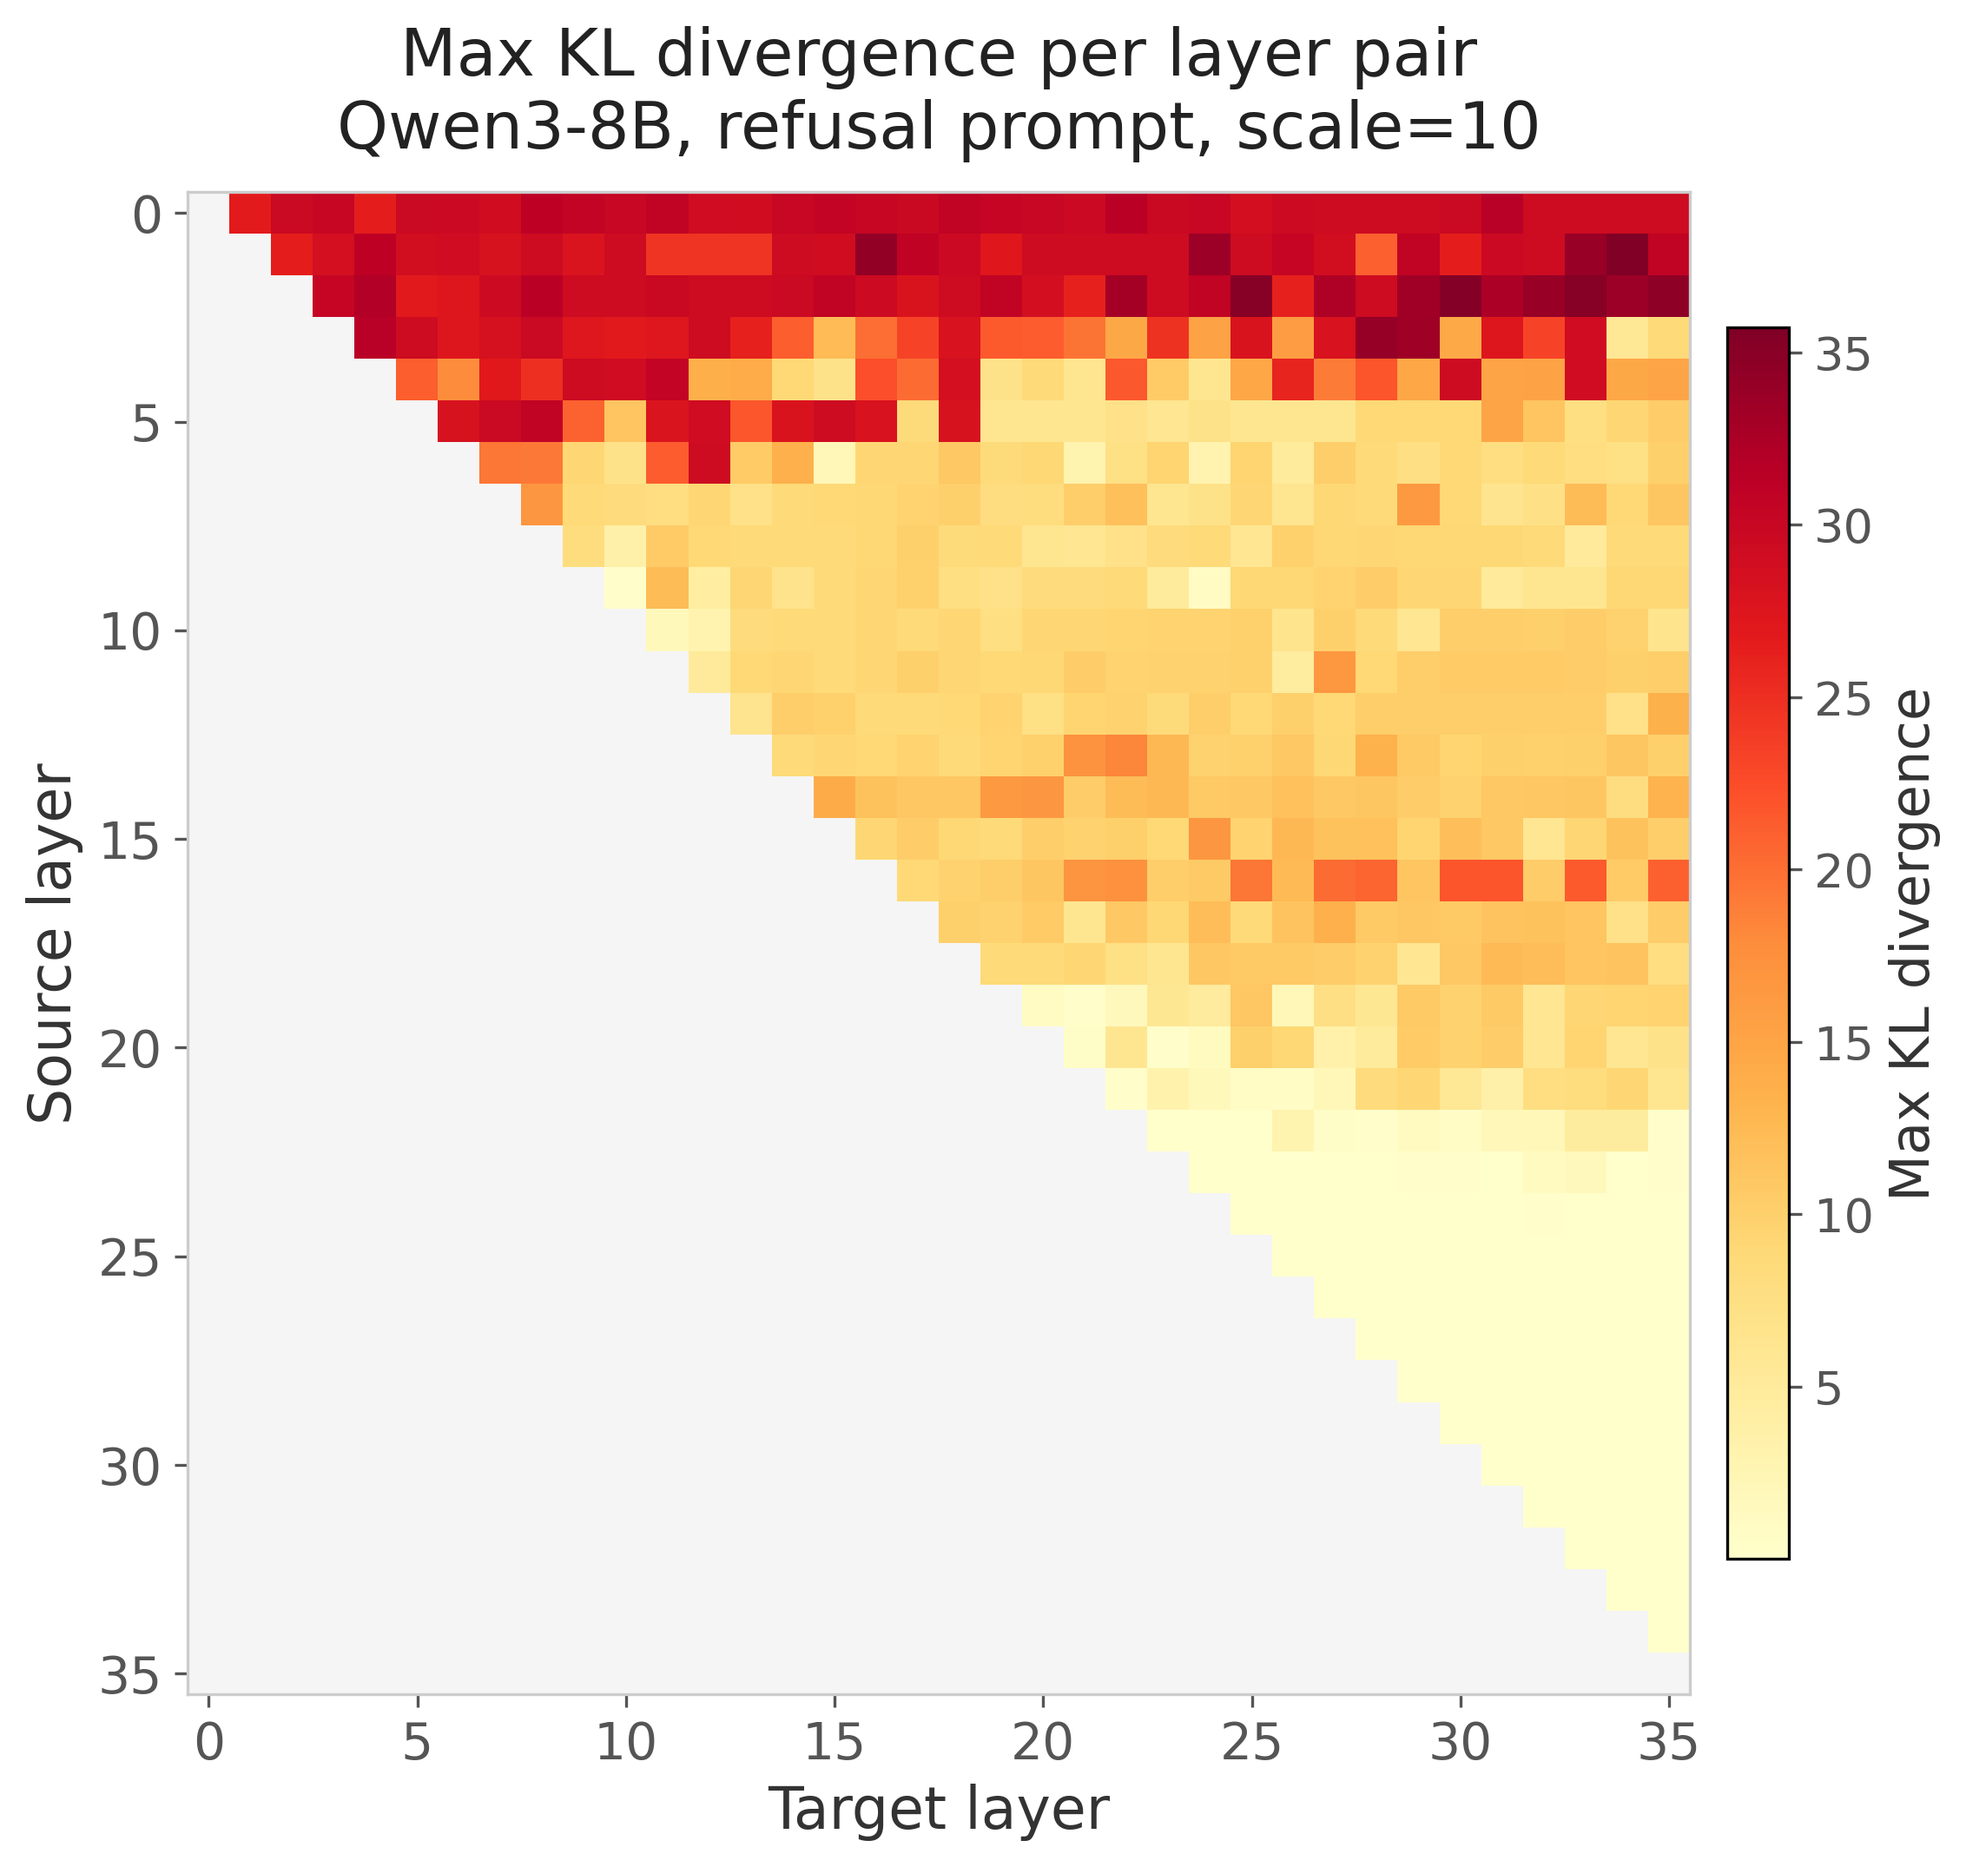
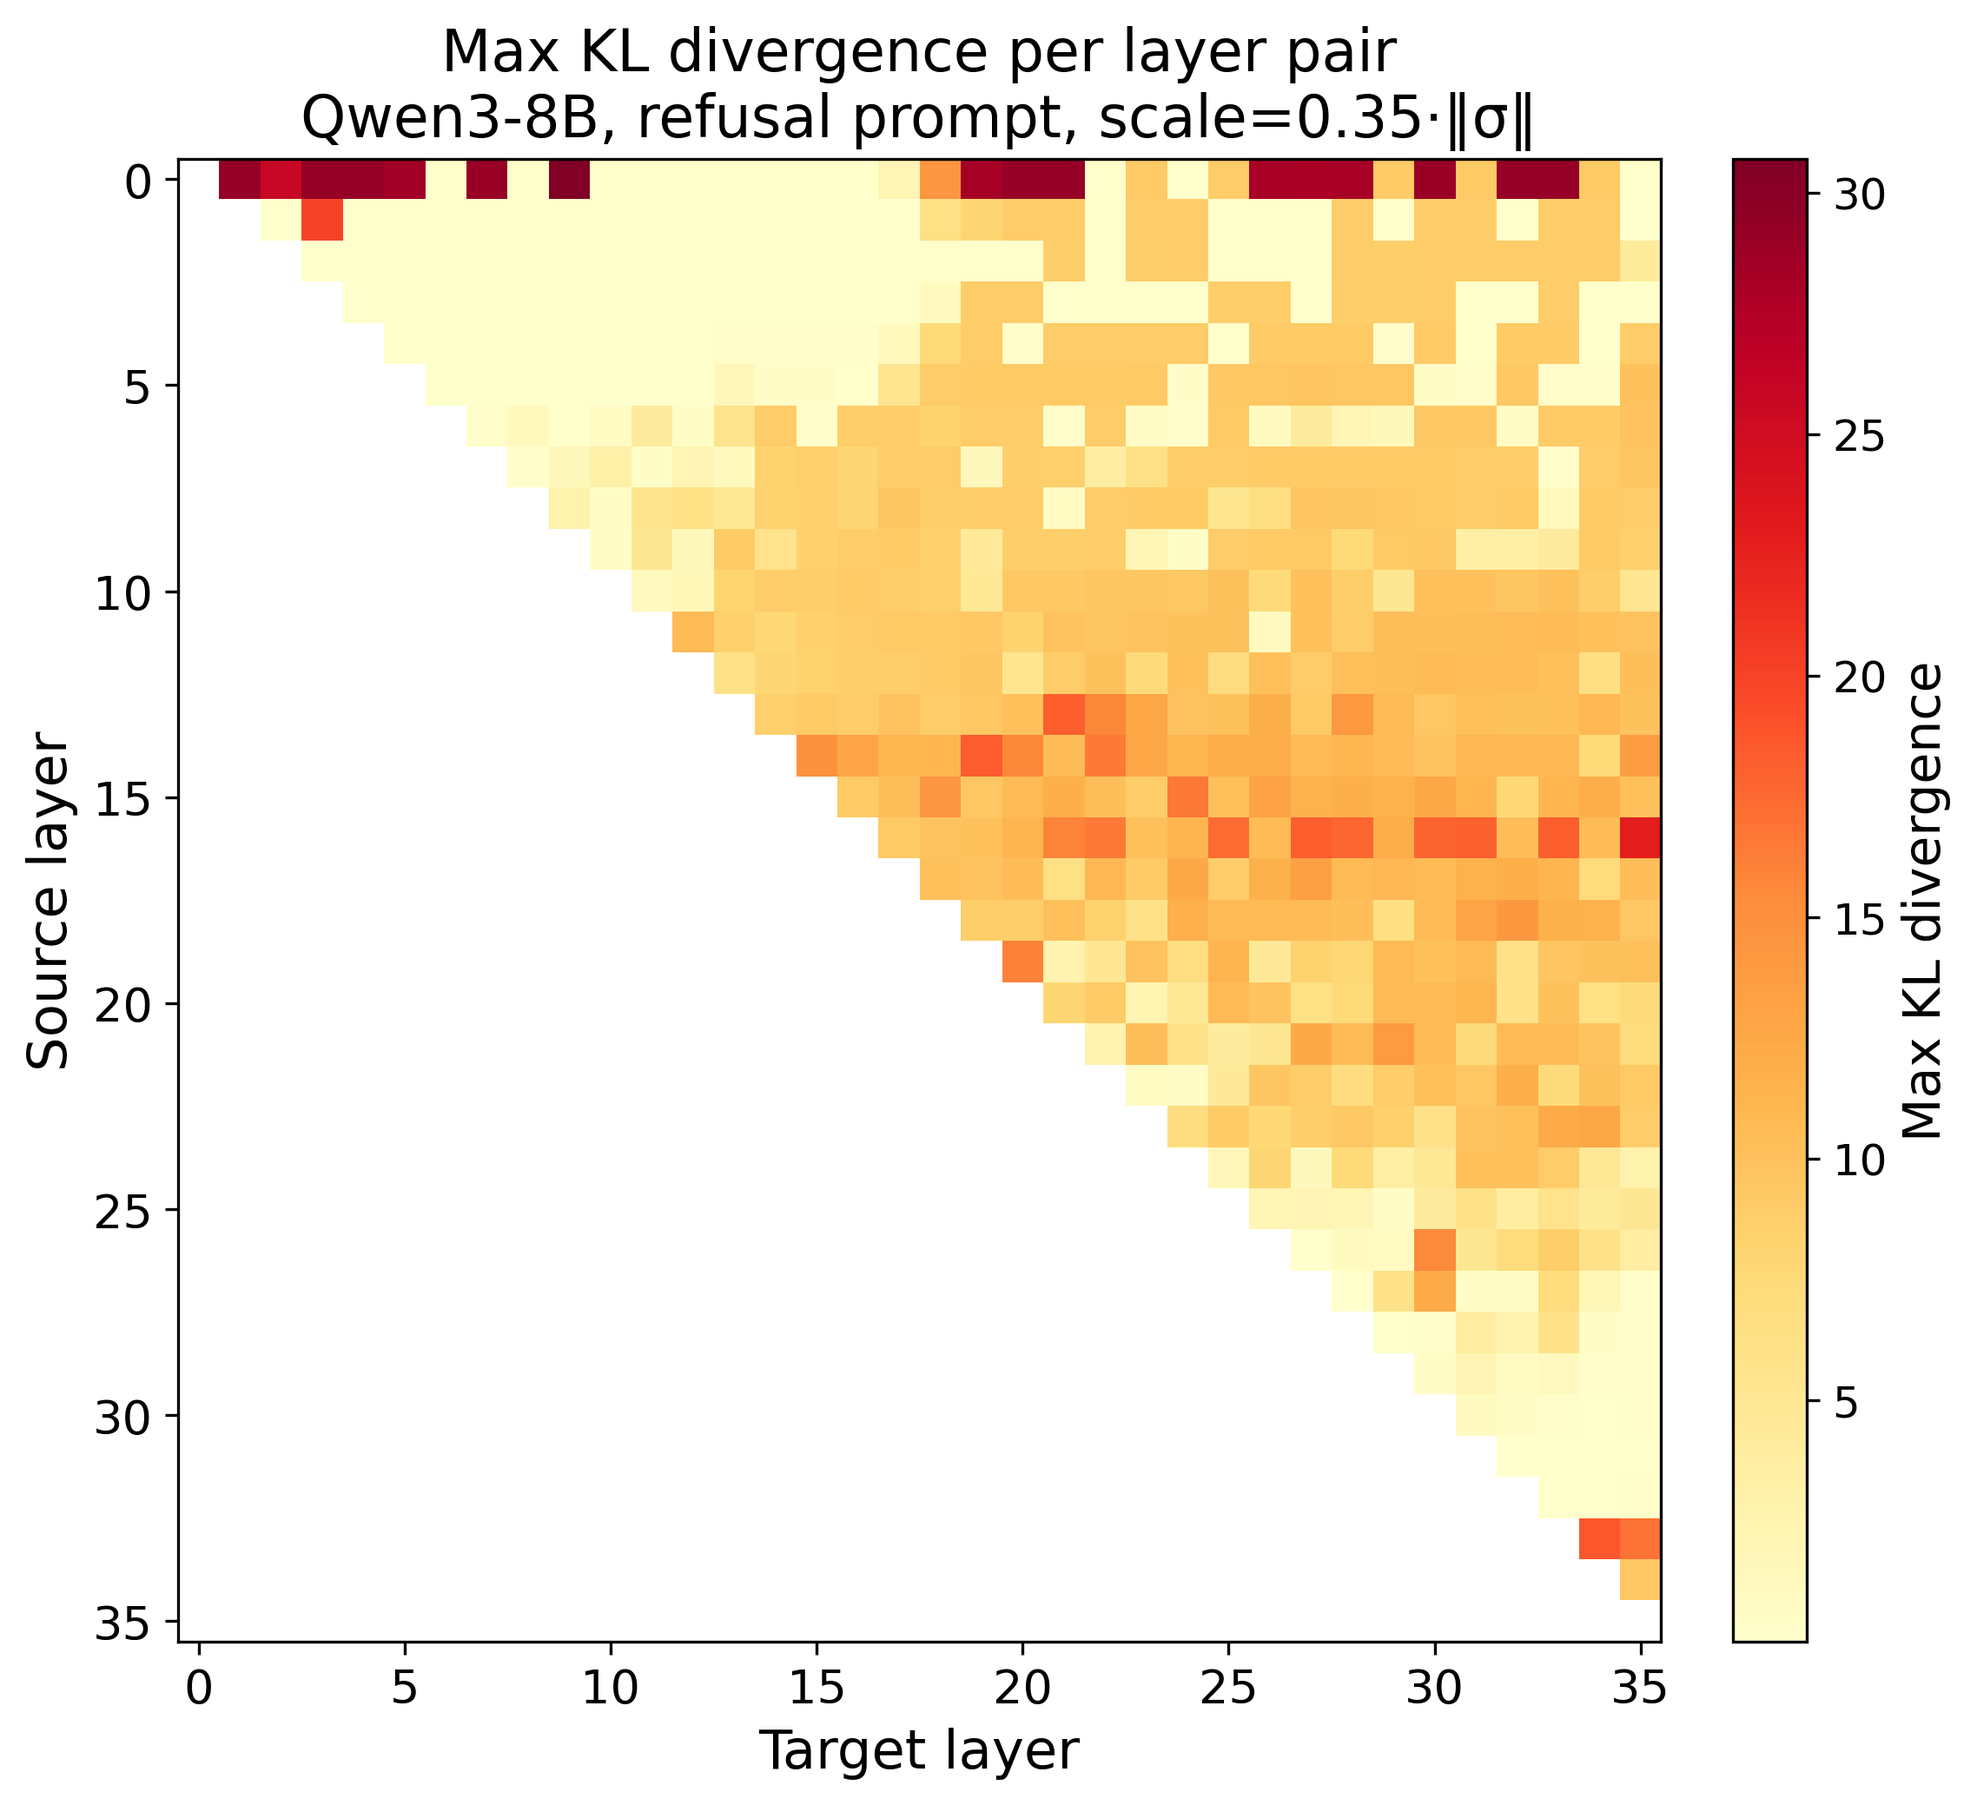
Updated norms

diff --git a/_posts/2026-02-17-Power-Steering.md b/_posts/2026-02-17-Power-Steering.md
@@ -4,6 +4,8 @@ title: "Power Steering: Behavior Steering via Layer-to-Layer Jacobian Singular V
 date: 2026-02-17
 ---
 
+*Update March 05, 2026*
+
 ## TLDR
 
 The right singular vectors of the Jacobian between MLP outputs at a source and target layer can steer model behavior. This method, which we call power steering (power iteration + steering vectors), builds on the intuition from [MELBO](https://www.lesswrong.com/posts/ioPnHKFyy4Cw2Gr2x/mechanistically-eliciting-latent-behaviors-in-language-1), but replaces nonlinear optimization with its local linear approximation. We used block power iteration with Rayleigh-Ritz correction to cheaply extract the top-$k$ right singular vectors, requiring only ~15 forward passes per layer pair. The method is cheap enough to map every layer pair in a model, producing a full sensitivity atlas. The discovered vectors worked best on prompts with tension (arithmetic, refusal, corrigibility) rather than open-ended generation, and produced similar performance to MELBO while outperforming CAA on corrigibility steering in Qwen3-14B.
@@ -136,7 +138,11 @@ One last note in comparing MELBO and power steering is that they found at least 
 
 ## Limitations and Future Work
 
-**Scale selection is underexplored.** Most experiments used a fixed steering scale of 10, but MLP output norms vary ~50x across layers in Qwen3-8B (5-15 at early layers, 100-700 in late layers)[^6]. This likely explains incoherent generations from early-layer vectors and weak effects from late-layer sources. Initial experiments with norm-proportional scaling showed more coherent effects across layers, but systematic tuning remains future work. Scale also interacted with task difficulty: steering improved simple arithmetic but hurt on hard word problems, suggesting the optimal scale may be task-dependent.
+**The power iteration process (or randomized svd) gets noisy in the degenerate subspace** The singular value spectrum is near-degenerate past the top ~5 vectors, so higher-ranked vectors are noisy without sufficient oversampling in the block iteration. Adding padding vectors improves this but I do not have the budget to repeat many of these experiments. Interestingly, behavior steering vectors exist in this degenerate subspace. 
+
+**Power iteration process (or randomized svd) is only correct up to sign** Only one sign of each singular vector was evaluated in the sensitivity atlas, so behavioral changes associated with the opposite sign may have been missed.
+
+**Scale selection is underexplored.** Most experiments used a fixed steering scale of 10, but MLP output norms vary ~50x across layers in Qwen3-8B (5-15 at early layers, 100-700 in late layers)[^6]. This likely explains incoherent generations from early-layer vectors and weak effects from late-layer sources. Initial experiments with norm-proportional scaling showed more coherent effects across layers and has been added to the dashboard and the KL heatmap for refusal was updated with this norm scaling.
 
 **KL divergence is a noisy proxy for behavioral change.** We used logit KL divergence as a filter to select vectors worth evaluating with full generation. While it worked as a coarse filter, high KL did not guarantee meaningful behavioral shifts, and we did not systematically characterize when it misleads. A better selection criterion could improve the yield of useful vectors.
 
@@ -155,6 +161,10 @@ One last note in comparing MELBO and power steering is that they found at least 
 4. **Local linear produces steering vectors with similar efficacy to nonlinear-derived ones.** The power iteration derived right singular vectors achieved similar performance to MELBO on corrigibility steering. The local linear approximation captures the steering-relevant structure.
 
 5. **Steering may amplify existing computation.** The best CoT vectors align with the model's natural representation on math prompts, and the refuse/comply axis is the dominant mode of Jacobian variation on refusal prompts. The steering vectors may not inject new capability but amplify latent circuits that the model already uses in its decision-making.
+
+## Acknowledgements
+
+I want to thank Jack Strand and Nick Turner for helpful discussions and feedback on this work.
 
 ---
 
